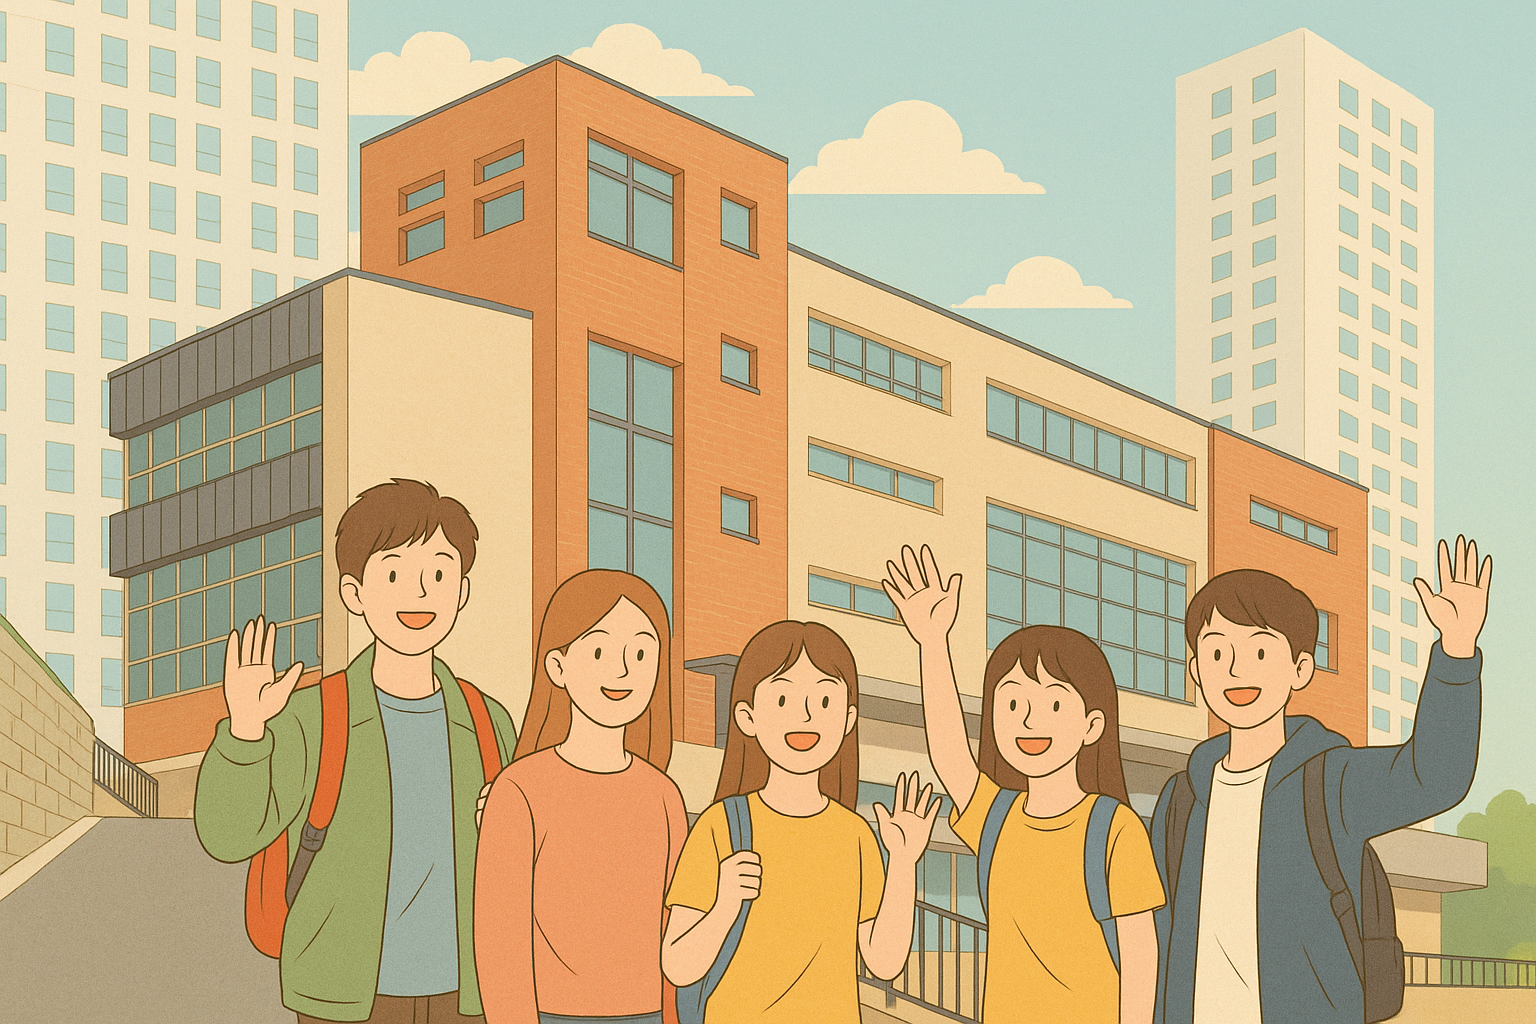
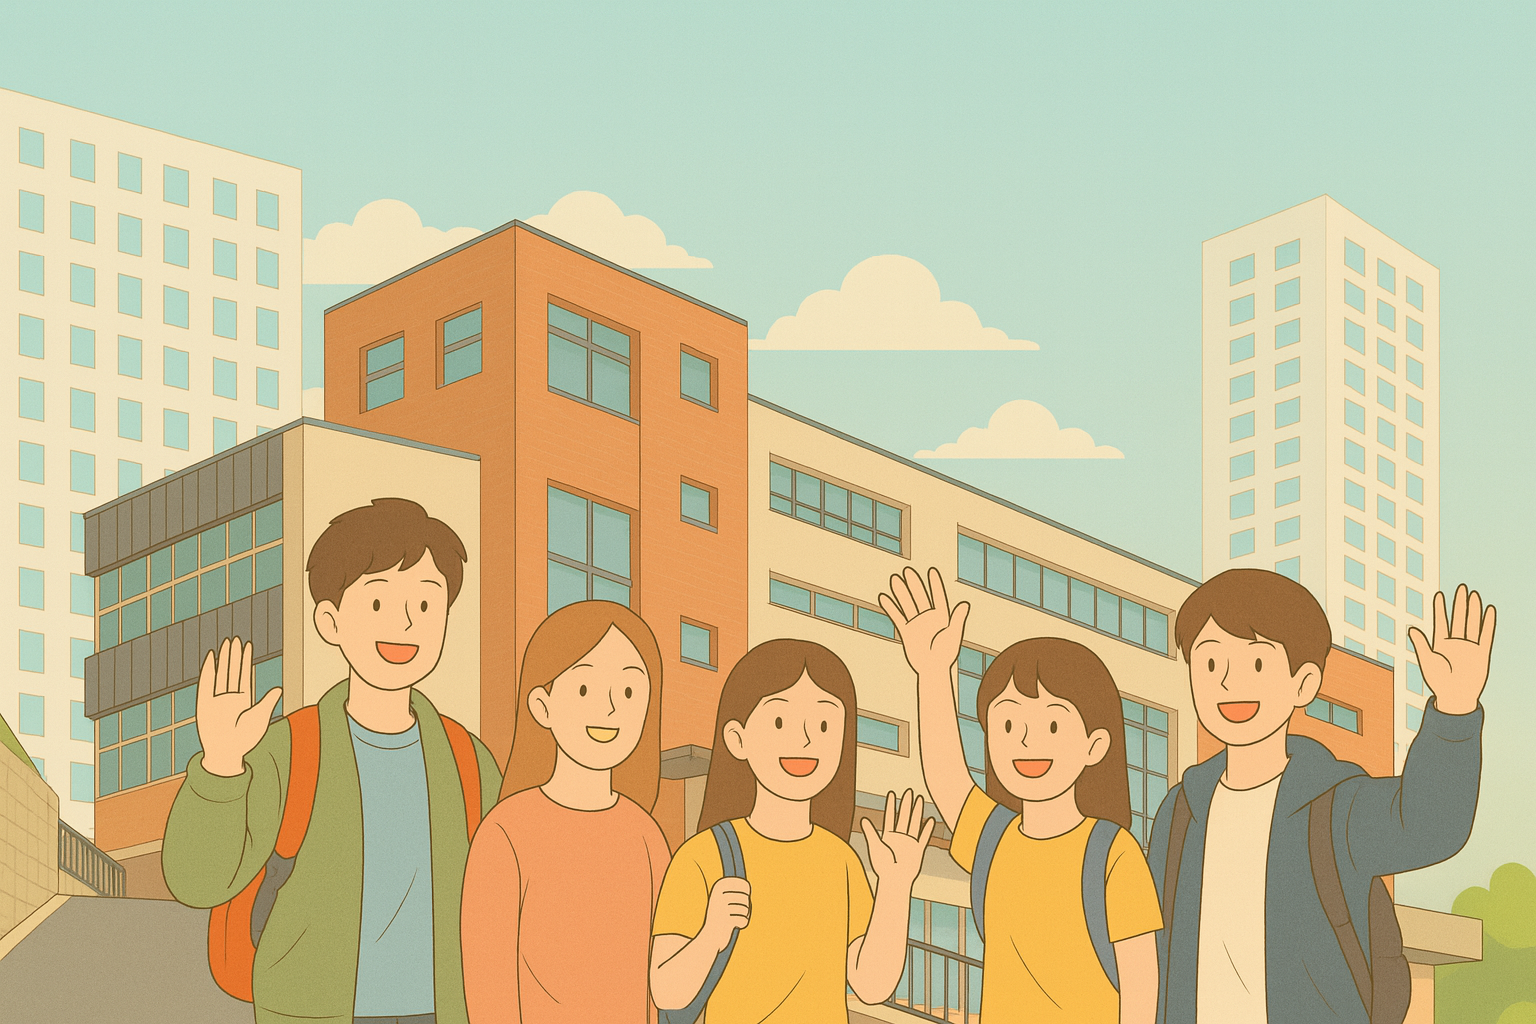
수정159

diff --git a/public/styles.css b/public/styles.css
@@ -47,31 +47,39 @@ body {
     min-width: 100%;
 }
 
-.banner-overlay {
-    position: absolute;
-    top: 0;
-    left: 0;
-    right: 0;
-    bottom: 0;
-    background: transparent;
-    display: flex;
-    flex-direction: column;
-    justify-content: flex-end;
-    align-items: center;
+/* 환영 메시지 섹션 */
+.welcome-section {
+    background: #f8f9fa;
+    padding: 30px 20px;
     text-align: center;
-    padding: 40px 20px 60px 20px;
 }
 
-.mascot-container {
-    margin-bottom: 20px;
+.welcome-content {
+    display: flex;
+    align-items: center;
+    justify-content: center;
+    gap: 0;
+    max-width: 800px;
+    margin: 0 auto;
 }
 
 .mascot-bounce {
-    width: 120px;
-    height: 120px;
+    width: 100px;
+    height: 100px;
     object-fit: contain;
     animation: bounce 2s infinite;
     filter: drop-shadow(0 4px 8px rgba(0,0,0,0.2));
+    margin-right: 0;
+}
+
+.welcome-title {
+    font-size: 2.2rem;
+    font-weight: 900;
+    color: #ff9800;
+    margin: 0;
+    text-shadow: 0 2px 8px rgba(255, 152, 0, 0.3);
+    letter-spacing: -1px;
+    line-height: 1.2;
 }
 
 @keyframes bounce {
@@ -171,6 +179,14 @@ body {
 .card-icon {
     font-size: 2.5rem;
     margin-bottom: 10px;
+}
+
+.card-image {
+    width: 60px;
+    height: 60px;
+    object-fit: contain;
+    display: block;
+    margin: 0 auto;
 }
 
 .card-text {
@@ -314,9 +330,13 @@ body {
         font-size: 1rem;
     }
     
+    .welcome-title {
+        font-size: 1.8rem;
+    }
+    
     .mascot-bounce {
-        width: 100px;
-        height: 100px;
+        width: 80px;
+        height: 80px;
     }
     
     .current-datetime {
@@ -338,6 +358,11 @@ body {
     
     .card-icon {
         font-size: 2rem;
+    }
+    
+    .card-image {
+        width: 50px;
+        height: 50px;
     }
     
     .card-text {
@@ -372,9 +397,13 @@ body {
         font-size: 0.9rem;
     }
     
+    .welcome-title {
+        font-size: 1.4rem;
+    }
+    
     .mascot-bounce {
-        width: 80px;
-        height: 80px;
+        width: 60px;
+        height: 60px;
     }
     
     .current-datetime {
@@ -404,6 +433,11 @@ body {
     
     .card-icon {
         font-size: 1.8rem;
+    }
+    
+    .card-image {
+        width: 40px;
+        height: 40px;
     }
     
     .card-text {

diff --git a/public/index.html b/public/index.html
@@ -15,13 +15,14 @@
             <div class="current-datetime"></div>
             <div class="banner-image">
                 <img src="dc.JPG" alt="동천청소년 문화의집 건물" class="main-building-img">
-                <div class="banner-overlay">
-                    <div class="mascot-container">
-                        <img src="jo.png" alt="마스코트" class="mascot-bounce">
-                    </div>
-                    <h1 class="banner-title">동천청소년문화의집</h1>
-                    <p class="banner-subtitle">방문을 환영합니다♥</p>
-                </div>
+            </div>
+        </div>
+
+        <!-- 환영 메시지 섹션 -->
+        <div class="welcome-section">
+            <div class="welcome-content">
+                <img src="jo.png" alt="마스코트" class="mascot-bounce">
+                <h1 class="welcome-title">동천청소년문화의집 방문을 환영합니다♥</h1>
             </div>
         </div>
 
@@ -31,11 +32,15 @@
                 <h3 class="category-title">시설 이용 신청</h3>
                 <div class="service-cards">
                     <a href="rental.html" class="service-card pink">
-                        <div class="card-icon">🪄</div>
+                        <div class="card-icon">
+                            <img src="jo2.png" alt="이용신청" class="card-image">
+                        </div>
                         <span class="card-text">이용신청</span>
                     </a>
                     <a href="cancel-reservation.html" class="service-card pink">
-                        <div class="card-icon">🏃</div>
+                        <div class="card-icon">
+                            <img src="jo3.png" alt="취소·중도퇴실" class="card-image">
+                        </div>
                         <span class="card-text">취소·중도퇴실</span>
                     </a>
                 </div>
@@ -155,7 +160,7 @@
     </div>
 
     <div class="footer">
-        <p class="footer-text">흥덕청소년문화의집</p>
+        <p class="footer-text">동천청소년문화의집</p>
     </div>
     <script>
     // 현재 시간/날짜 표시
